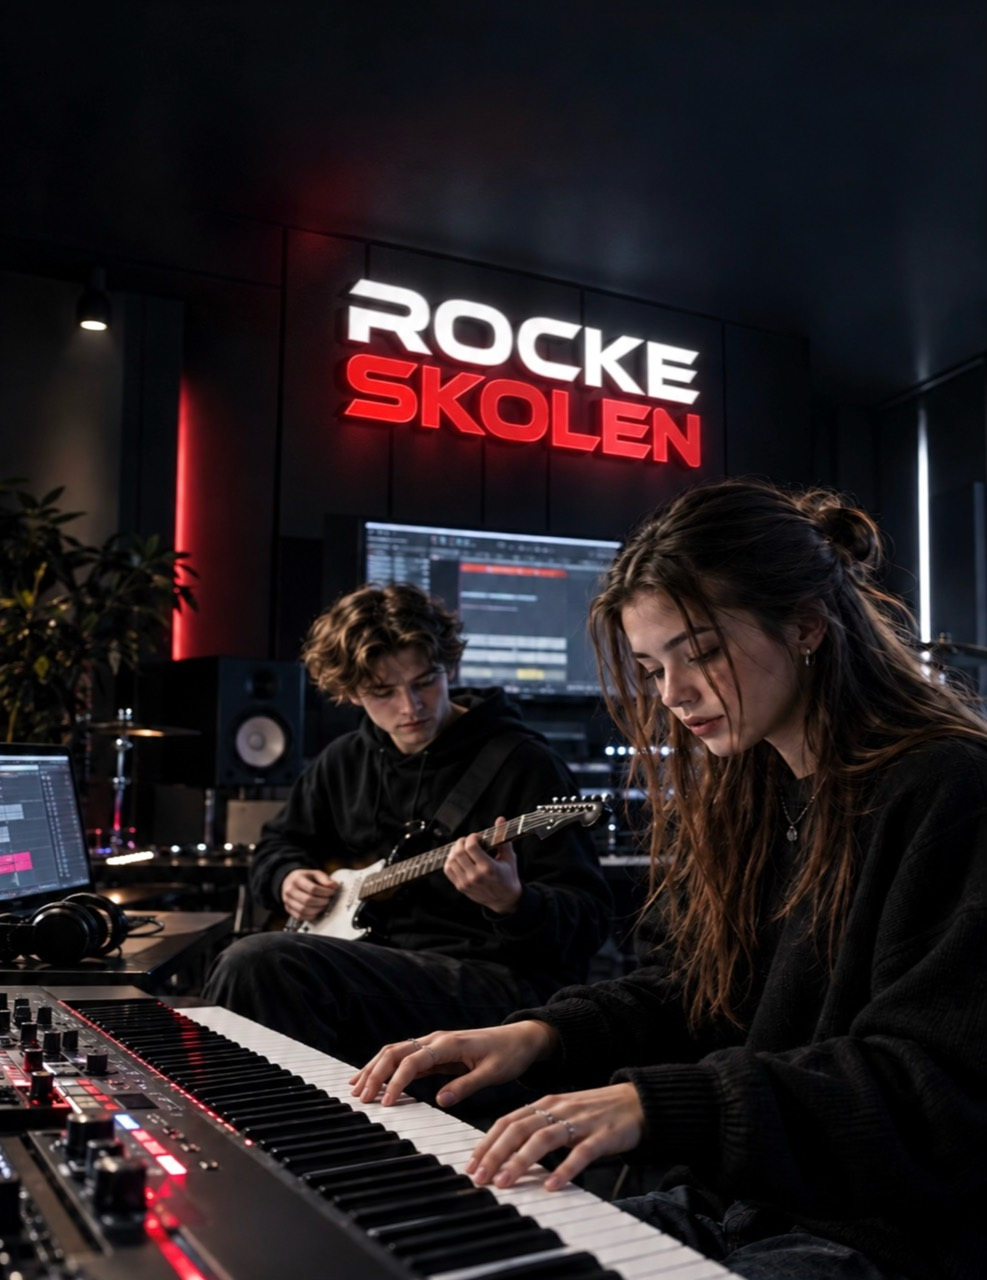
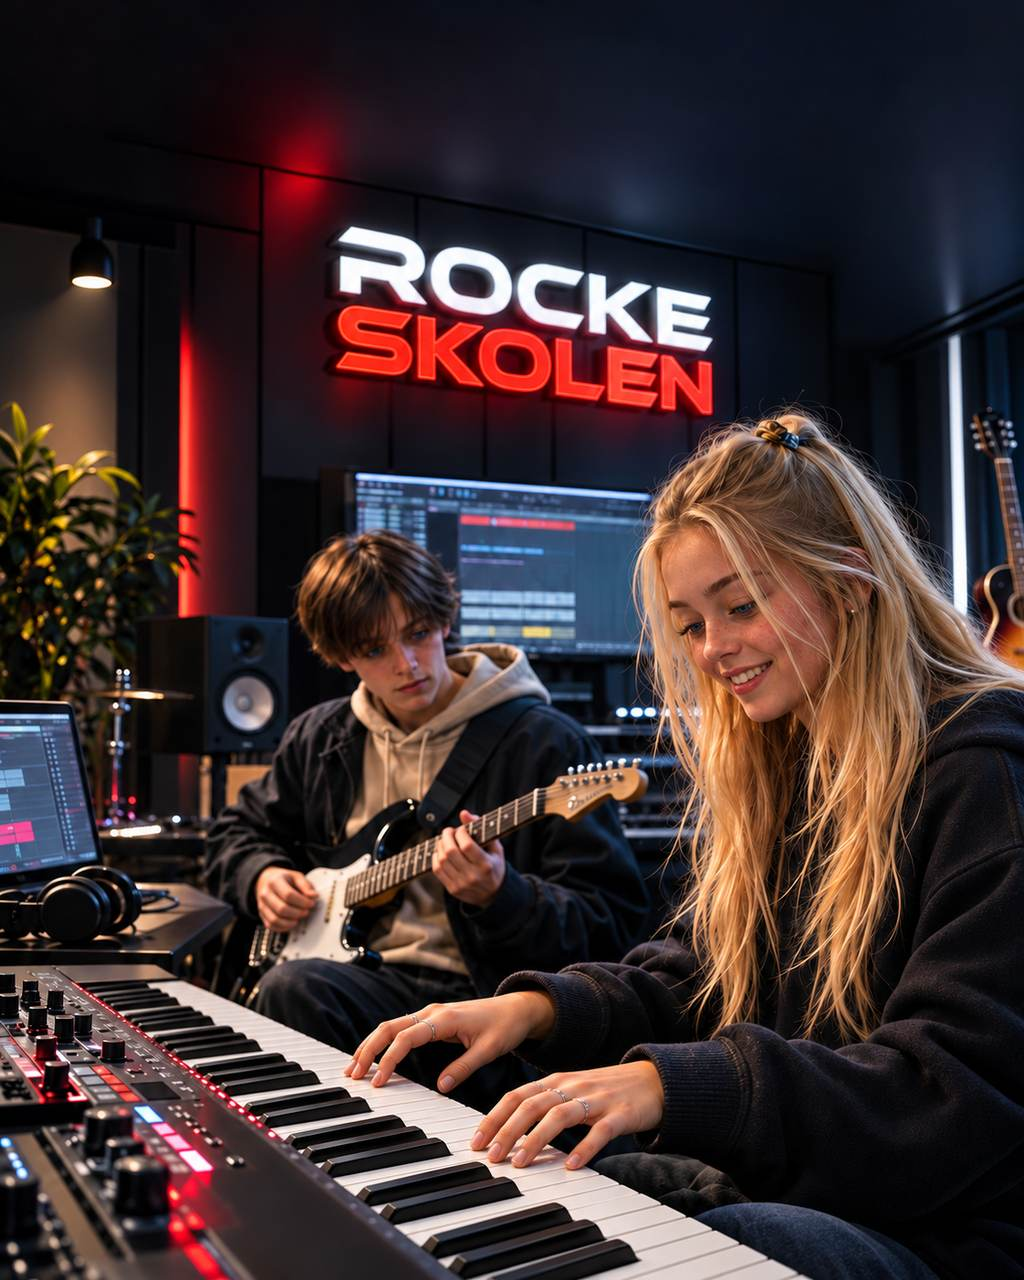
New front page photo as JPG and WebP, about 140 kB each

diff --git a/index.php b/index.php
@@ -15,7 +15,7 @@
   <meta property="og:image" content="https://rockeskolen.com/images/workshops.jpg">
   <meta property="og:image:secure_url" content="https://rockeskolen.com/images/workshops.jpg">
   <meta property="og:image:type" content="image/jpeg">
-  <meta property="og:image:width" content="987">
+  <meta property="og:image:width" content="1024">
   <meta property="og:image:height" content="1280">
   <meta property="og:image:alt" content="Musiker arbeider med gitar og keyboard i Rockeskolens studio">
   <meta name="twitter:card" content="summary_large_image">
@@ -67,7 +67,10 @@
           </div>
         </div>
         <div class="f-hero-media">
-          <img src="/images/workshops.jpg" alt="Musiker arbeider med gitar og keyboard i Rockeskolens studio" width="987" height="1280" fetchpriority="high">
+          <picture>
+            <source srcset="/images/workshops.webp" type="image/webp">
+            <img src="/images/workshops.jpg" alt="To unge musikere spiller gitar og keyboard i Rockeskolens studio" width="1024" height="1280" fetchpriority="high">
+          </picture>
           <div class="f-eq" aria-hidden="true"><i></i><i></i><i></i><i></i><i></i><i></i></div>
         </div>
       </div>
